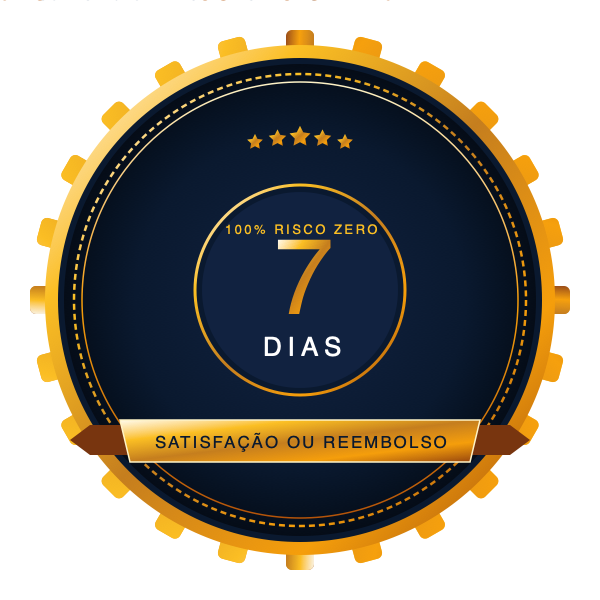
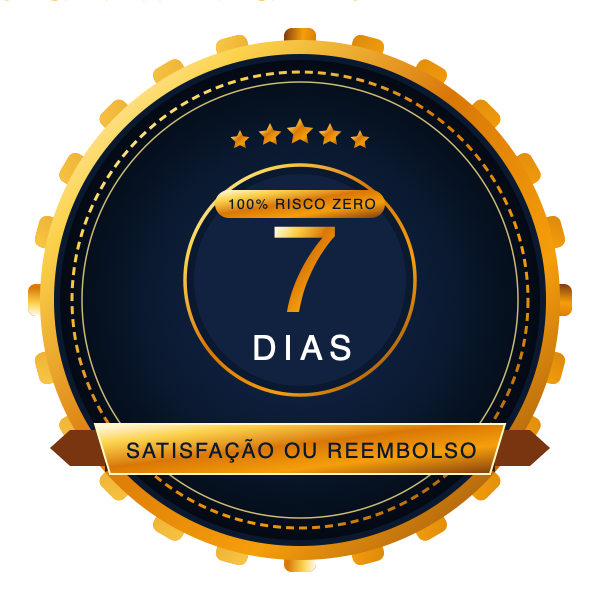
design(seal): aprimorar tipografia, contraste e tamanho do selo de garantia de 7 dias

diff --git a/index.html b/index.html
@@ -1290,7 +1290,7 @@
             <img 
               src="assets/images/selo-garantia-7dias.png" 
               alt="Selo Oficial de Garantia 7 Dias Incondicionais - AgoraEuFalo" 
-              class="w-28 h-28 sm:w-32 sm:h-32 object-contain drop-shadow-[0_8px_20px_rgba(197,126,30,0.35)] transition-transform duration-300 group-hover:scale-105"
+              class="w-32 h-32 sm:w-36 sm:h-36 md:w-40 md:h-40 object-contain drop-shadow-[0_8px_24px_rgba(197,126,30,0.4)] transition-transform duration-300 group-hover:scale-105"
             />
           </div>
 
